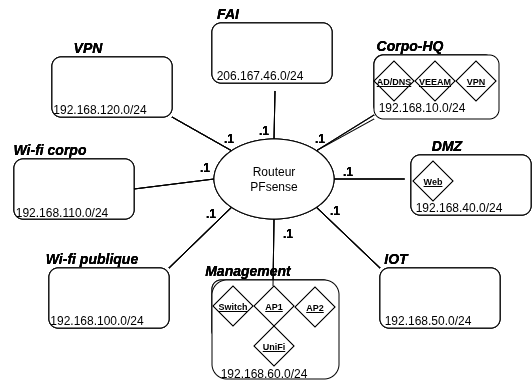
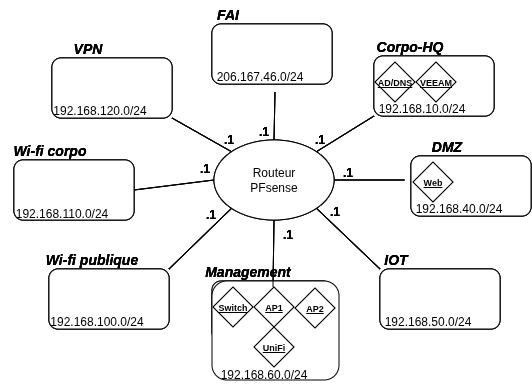
Fichiers a jour

diff --git a/documentation/livrable17-sauvegarde-et-restauration.md b/documentation/livrable17-sauvegarde-et-restauration.md
@@ -1,156 +1,44 @@
 # Livrable 17 – Sauvegarde et Restauration
 
-## 1. Objectif
+## 1. Outil de sauvegarde
 
-Mettre en place une stratégie complète de sauvegarde et de restauration pour l’infrastructure virtualisée, incluant :
+**Veeam Backup & Replication 13** installé sur **Windows Server 2022**
 
-- Configuration des sauvegardes
-- Stockage sécurisé dans le cloud (mode objet)
-- Test de restauration
-- Documentation complète
-
----
-
-# 2. Choix de l’outil de sauvegarde
-
-## Outil sélectionné
-
-Nous avons choisi **Veeam Backup & Replication** installé sur **Windows Server 2022**.
-
-### Justification du choix
-
-- Solution professionnelle utilisée en entreprise
-- Compatible avec environnements virtualisés (VMware / Hyper-V)
-- Support natif du stockage objet Azure Blob
-- Gestion des sauvegardes incrémentielles
-- Restauration complète ou instantanée
-
-Ce choix est pertinent et adapté à notre infrastructure.
+### Justification
+- Compatible VMware
+- Sauvegarde vers Azure Blob Storage (mode objet)
+- Gestion incrémentielle et full
+- Restauration complète possible
 
 ---
 
-# 3. Architecture mise en place
+## 2. Configuration des sauvegardes
 
-## Architecture logique
-
-```
-        +----------------------+
-        |   Machines Virtuelles |
-        |      (VMs ESXi)       |
-        +-----------+----------+
-                    |
-                    v
-        +----------------------+
-        |      SRV-VEEAM       |
-        |   Windows Server 2022|
-        +-----------+----------+
-                    |
-                    v
-        +----------------------+
-        | Microsoft Azure Blob |
-        |   Object Storage     |
-        |   HTTPS sécurisé     |
-        +----------------------+
-```
----
-
-# 4. Configuration du stockage Cloud
-
-## Fournisseur Cloud
-
-- Fournisseur : Microsoft Azure
-- Service : Azure Blob Storage
-- Type : Object Storage
-- Connexion : HTTPS via clé API sécurisée
-
-## Étapes réalisées
-
-1. Création d’un Storage Account (StorageV2)
-2. Performance : Standard
-3. Redondance : LRS
-4. Création d’un conteneur nommé : veeam-backups
-5. Récupération des Access Keys
-6. Configuration du repository Azure Blob dans Veeam
+- **Machines sauvegardées** : Toutes les VMs de l’infrastructure
+- **Type de sauvegarde** : Full initial + incrémentiel quotidien
+- **Planification** : Automatique, tous les jours à 22h
+- **Rétention** : 7 points de restauration
+- **Repository cible** : AzureBlob_VEEAM (Azure Blob Storage → conteneur `backups-esxi` → folder `TP_Livrable17`)
 
 ---
 
-# 5. Configuration des sauvegardes
+## 3. Fournisseur cloud et stockage
 
-## Type de sauvegarde
-
-- Backup incrémentiel
-- Full initial automatique
-
-## Sélection
-
-Toutes les machines virtuelles de l’infrastructure sont incluses.
-
-## Planification
-
-- Fréquence : Quotidienne
-- Heure : 22h
-- Mode : Automatique
-
-## Politique de rétention
-
-- 14 points de restauration conservés
+- **Fournisseur** : Microsoft Azure
+- **Service** : Azure Blob Storage
+- **Type** : Object Storage
+- **Connexion** : HTTPS sécurisé via clé d’accès
+- **Contenu du container** : fichiers `.vbk` (full), `.vib` (incremental), `.vbm` (metadata)
 
 ---
 
-# 6. Exécution des sauvegardes
+## 4. Exécution et vérification
 
-Les sauvegardes ont été lancées manuellement pour validation initiale.
+- **Statut des backups** : Toutes les VMs sauvegardées avec succès
+- **Accès cloud confirmé** : fichiers visibles dans Azure Portal
 
-Résultat :
-
-- Statut : Success
-- Fichiers visibles dans Azure Blob Storage
-- Connexion sécurisée HTTPS confirmée
-
-## Captures d’écran à inclure
-
-- Configuration du job
-- Exécution réussie
-- Conteneur Azure avec fichiers de sauvegarde
-
----
-
-# 7. Test de restauration
-
-## Procédure effectuée
-
-1. Arrêt d’une machine virtuelle test
-2. Lancement d’une restauration complète depuis Veeam
-3. Sélection du dernier point de restauration
-4. Restauration vers l’emplacement d’origine
-
-## Résultat
-
-- Restauration réussie
-- VM redémarrée sans erreur
-- Services fonctionnels
-- Connectivité réseau valide
-
-## Captures d’écran à inclure
-
-- Assistant de restauration
-- Processus en cours
-- VM restaurée et opérationnelle
-
----
-
-# 8. Stratégie de sauvegarde retenue
-
-Notre stratégie repose sur :
-
-- Sauvegarde quotidienne automatique
-- Stockage hors site sécurisé (Cloud)
-- Conservation de 14 points de restauration
-- Test de restauration validé
-
-Cette stratégie garantit :
-
-- Protection contre la perte de données
-- Protection contre panne matérielle
-- Protection contre erreur humaine
-- Continuité de service
+## 5. Captures d'écran
+![alt text](images/CONFIGJOB.png)
+![alt text](images/SUCCESSPOURDEVRAI-2.png)
+![alt text](images/RESTORE.png)
+![alt text](images/ESXIRESTORE.png)

diff --git a/documentation/livrable16_restauration.md b/documentation/livrable16_restauration.md
@@ -22,8 +22,8 @@ Mettre en place un outil de capture et de restauration d'une image système afin
 7. Vérifier l’intégrité de l’image via l’option **Vérifier l’image**.
 
 **Capture d’écran / photo pendant la capture :**  
-![alt text](1.png)
-![alt text](4.png)
+![alt text](images/1.png)
+![alt text](images/4.png)
 
 ---
 
@@ -34,7 +34,7 @@ Mettre en place un outil de capture et de restauration d'une image système afin
 3. Sélectionner la **clé USB** pour créer le support.  
 4. Lancer la création → attendre la fin.  
 
-![alt text](<Capture d’écran 2026-02-19 095022.png>)
+![alt text](<images/Capture d’écran 2026-02-19 095022.png>)
 Résultat : clé USB bootable avec AOMEI Backupper prête pour la restauration.
 
 ---
@@ -52,15 +52,15 @@ Résultat : clé USB bootable avec AOMEI Backupper prête pour la restauration.
 9. Retirer la clé USB et redémarrer normalement.  
 
 **Capture d’écran avant la restauration avec des modifications non sauvegardées :** 
-![alt text](aaaaa.png)
+![alt text](images/aaaaa.png)
 
 **photos pendant la restauration :**
-![alt text](20260219_100953.jpg)
-![alt text](20260219_101108.jpg)
-![alt text](20260219_101554.jpg)
-![alt text](20260219_101602.jpg)
+![alt text](images/20260219_100953.jpg)
+![alt text](images/20260219_101108.jpg)
+![alt text](images/20260219_101554.jpg)
+![alt text](images/20260219_101602.jpg)
 
 
 **Capture d’écran après la restauration :** 
-![alt text](final.png)
+![alt text](images/final.png)
 

diff --git a/documentation/livrable06-plan-adressage.md b/documentation/livrable06-plan-adressage.md
@@ -21,9 +21,8 @@
 |------------------|--------------------|----------|
 | PFsense          | 192.168.10.1       | Statique |
 | VM-AD/DNS        | 192.168.10.10      | Statique |
-| VM-Zabbix        | 192.168.10.20      | Statique |
-| Imprimante       | 192.168.10.50      | Statique |
-| PCs Admin        | DHCP (.100-.200)     | DHCP     |
+| VM-VEEAM         | 192.168.10.103     | Statique |
+| PCs Admin        | DHCP (.100-.200)   | DHCP     |
 
 ## VLAN Succursale MTL (ID 20)
 
@@ -61,6 +60,7 @@
 | Switch HQ        | 192.168.60.2       | Statique |
 | AP 1             | 192.168.60.10      | Statique |
 | AP 2             | 192.168.60.20      | Statique |
+| Unifi            | 192.168.60.5       | Statique |
 
 
 ## VLAN Wi-Fi publique (ID 100)
@@ -82,7 +82,7 @@
 | Appareil/Service | Adresse IP         | Mode     |
 |------------------|--------------------|----------|
 | PFsense          | 192.168.120.1      | Statique |
-| Connexions VPN   | DHCP (.5-.200)     | DHCP     |
+| Connexions VPN   | DHCP (.2-.200)     | DHCP     |
 
 ## VLAN FAI (ID 460)
 

diff --git a/documentation/livrable15_installation_station.md b/documentation/livrable15_installation_station.md
@@ -10,7 +10,7 @@
 | Adresse IP | 192.168.60.107 (DHCP) |
 
 **Capture d’écran `ipconfig /all` :**  
-![Configuration IP de PC-S0-01](ipconfig.png)
+![Configuration IP de PC-S0-01](images/ipconfig.png)
 
 ---
 
@@ -22,7 +22,7 @@
 | D: (DATA) | 50% | Données de sauvegarde |
 
 **Capture d’écran des partitions :**  
-![Partitions C: et D: sur PC-S0-01](disques.png)
+![Partitions C: et D: sur PC-S0-01](images/disques.png)
 
 ---
 
@@ -34,10 +34,10 @@
   - 7-Zip  
 
 **Capture d’écran de la jointure au domaine :**  
-![PC-S0-01 joint au domaine AD](ad.png)
+![PC-S0-01 joint au domaine AD](images/ad.png)
 
 **Capture d’écran du lecteur réseau S: Installations :**  
-![Lecteur réseau S: Installations](lecteuretapp.png)
+![Lecteur réseau S: Installations](images/lecteuretapp.png)
 
 ---
 
@@ -47,7 +47,7 @@
 - Pilotes installés : carte réseau, carte graphique, audio, chipset, imprimante
 
 **Capture d’écran du gestionnaire de périphériques :**  
-![alt text](h.png)
+![alt text](images/h.png)
 
 
 ---

diff --git a/documentation/livrable18-vpn.md b/documentation/livrable18-vpn.md
@@ -12,9 +12,9 @@
   - Full-tunnel : `redirect-gateway def1`
 
 ## Preuve de connexion réussie (capture d’écran)
-![alt text](image.png)
-![alt text](image-1.png)
-![alt text](image-2.png)
+![alt text](images/image.png)
+![alt text](images/image-1.png)
+![alt text](images/image-2.png)
 
 ## Comptes créés
 - Chaque membre possède son propre compte VPN :

diff --git a/documentation/livrable14-configuration-points-acces.md b/documentation/livrable14-configuration-points-acces.md
@@ -98,5 +98,5 @@ Pour assurer l’isolation du Wi-Fi public tout en maintenant l’accès Interne
 > - L’accès Internet pour les clients du Wi-Fi public  
 > - Le blocage complet du réseau interne (VLAN employés, VLAN management, etc.)
 
-![alt text](reglewifipub.png)
+![alt text](images/reglewifipub.png)
 

diff --git a/documentation/livrable13-installation-controleur-unifi.md b/documentation/livrable13-installation-controleur-unifi.md
@@ -51,4 +51,4 @@ https://192.168.60.5:8443
 
 ## 5. Capture de l'écran d'accueil du controleur Unifi
 
-![alt text](Controleurunifi.png)
+![alt text](images/Controleurunifi.png)
